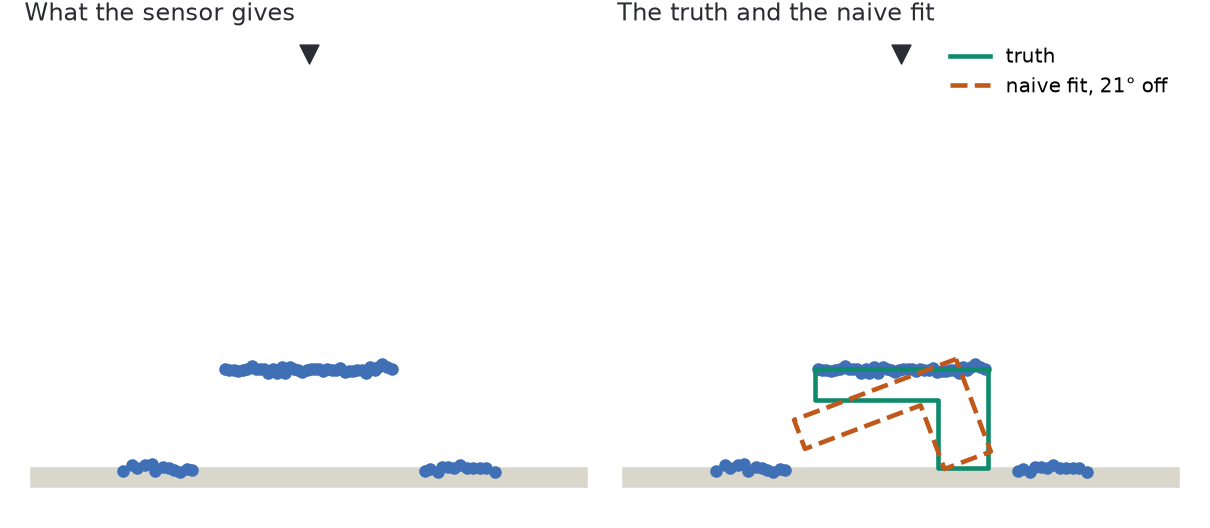
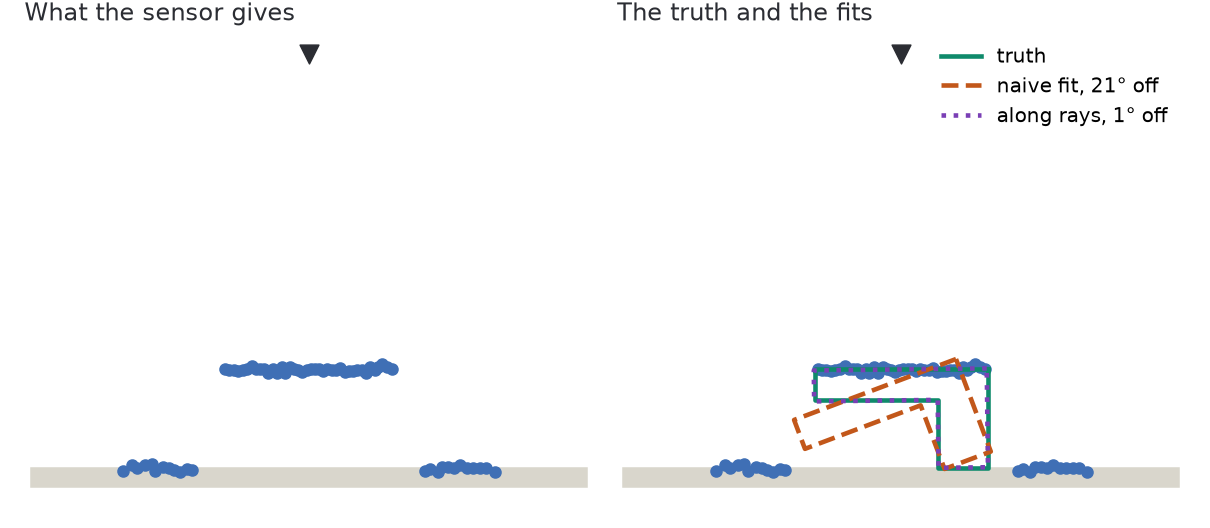
Answer the ladder with a fit along rays
Pairs read only their ray and its neighbours, the gate tightens, and the rays
through have their say in a polish. Step 4 goes from 2.9 degrees and 71 mm to
0.4 degrees and 2 mm, with strays that are now real returns. Same constants at
every step; the start is still given.

diff --git a/ideas/experiments/ladder/rays.py b/ideas/experiments/ladder/rays.py
@@ -1,0 +1,102 @@
+"""Fit along the camera's rays: what a pixel says, not which point is nearest."""
+
+from dataclasses import dataclass
+
+import numpy as np
+from numpy.typing import NDArray
+
+from fit import HIT_GATE, Pose, rigid_fit
+from scenes import BRACKET, CAMERA, RAY_COUNT, Points, depths_along_rays, placed, ray_directions
+
+GATES = (0.06, 0.04, 0.025, 0.012)
+PAIRING_ROUNDS = 6
+WINDOW = 2
+THROUGH_COST = 3.0
+POLISH_ROUNDS = 60
+POLISH_TURN = np.radians(2.0)
+POLISH_SHIFT = 0.008
+POLISH_SHRINK = 0.5
+LEAST_PAIRS = 3
+
+
+@dataclass(frozen=True)
+class Reading:
+    hits: int
+    through: int
+    hidden: int
+    value: float
+
+
+def seen_points(observed: NDArray[np.float64]) -> Points:
+    return CAMERA + ray_directions() * observed[:, None]
+
+
+def visible_model(pose: Pose) -> tuple[Points, NDArray[np.bool_]]:
+    depths = depths_along_rays((placed(BRACKET, pose.angle, pose.shift),))
+    on_model = np.isfinite(depths)
+    points = CAMERA + ray_directions() * np.where(on_model, depths, 0.0)[:, None]
+    return points, on_model
+
+
+def read(pose: Pose, observed: NDArray[np.float64]) -> Reading:
+    model = depths_along_rays((placed(BRACKET, pose.angle, pose.shift),))
+    known = np.isfinite(model) & np.isfinite(observed)
+    gap = observed[known] - model[known]
+    hits = int((np.abs(gap) <= HIT_GATE).sum())
+    through = int((gap > HIT_GATE).sum())
+    hidden = int((gap < -HIT_GATE).sum())
+    return Reading(hits, through, hidden, hits - THROUGH_COST * through)
+
+
+def pairs(pose: Pose, observed: NDArray[np.float64], gate: float) -> tuple[Points, Points]:
+    points, on_model = visible_model(pose)
+    seen = seen_points(observed)
+    usable = np.isfinite(observed)
+    model_side, frame_side = [], []
+    for ray in np.flatnonzero(on_model):
+        low, high = max(0, ray - WINDOW), min(RAY_COUNT, ray + WINDOW + 1)
+        candidates = seen[low:high][usable[low:high]]
+        if len(candidates) == 0:
+            continue
+        distances = np.linalg.norm(candidates - points[ray], axis=1)
+        nearest = int(distances.argmin())
+        if distances[nearest] <= gate:
+            model_side.append(points[ray])
+            frame_side.append(candidates[nearest])
+    return np.array(model_side).reshape(-1, 2), np.array(frame_side).reshape(-1, 2)
+
+
+def compose(step: Pose, pose: Pose) -> Pose:
+    turn = np.array([[np.cos(step.angle), -np.sin(step.angle)], [np.sin(step.angle), np.cos(step.angle)]])
+    return Pose(pose.angle + step.angle, turn @ pose.shift + step.shift)
+
+
+def along_rays(start: Pose, observed: NDArray[np.float64]) -> Pose:
+    pose = start
+    for gate in GATES:
+        for _ in range(PAIRING_ROUNDS):
+            model_side, frame_side = pairs(pose, observed, gate)
+            if len(model_side) < LEAST_PAIRS:
+                break
+            pose = compose(rigid_fit(model_side, frame_side), pose)
+    return pose
+
+
+def polish(start: Pose, observed: NDArray[np.float64]) -> Pose:
+    pose, best = start, read(start, observed).value
+    turn, shift = POLISH_TURN, POLISH_SHIFT
+    moves = ((1, 0, 0), (-1, 0, 0), (0, 1, 0), (0, -1, 0), (0, 0, 1), (0, 0, -1))
+    for _ in range(POLISH_ROUNDS):
+        better = False
+        for spin, across, along in moves:
+            trial = Pose(pose.angle + spin * turn, pose.shift + shift * np.array([across, along]))
+            value = read(trial, observed).value
+            if value > best:
+                pose, best, better = trial, value, True
+        if not better:
+            turn, shift = turn * POLISH_SHRINK, shift * POLISH_SHRINK
+    return pose
+
+
+def by_rays(start: Pose, observed: NDArray[np.float64]) -> Pose:
+    return polish(along_rays(start, observed), observed)

diff --git a/ideas/experiments/ladder/draw.py b/ideas/experiments/ladder/draw.py
@@ -7,12 +7,14 @@ import matplotlib.pyplot as plt
 import numpy as np
 
 from fit import Pose, Verdict, model_to_scan, rotation_error, scan_to_model, starts, verdict
+from rays import by_rays
 from scenes import BRACKET, CAMERA, LADDER, Points, Step, placed, resting_shift, sensed
 
 INK = "#2b2d33"
 TRUTH_COLOUR = "#0f8a6b"
 NAIVE_COLOUR = "#c2571a"
 SCAN_COLOUR = "#3f6fb5"
+RAYS_COLOUR = "#7a3fb5"
 OBSTACLE_COLOUR = "#d9d6cc"
 SEED = 20261104
 
@@ -46,7 +48,8 @@ def framed(axis: plt.Axes, step: Step, scan: Points) -> None:
     axis.axis("off")
 
 
-def figure_of(step: Step, scan: Points, truth: Pose, naive: Pose, error: float, target: Path) -> None:
+def figure_of(step: Step, scan: Points, truth: Pose, fits: tuple[Pose, float, Pose | None, float], target: Path) -> None:
+    naive, error, rays, rays_error = fits
     figure, (given, answer) = plt.subplots(1, 2, figsize=(11.0, 4.8))
     framed(given, step, scan)
     given.set_title("What the sensor gives", loc="left", color=INK, fontsize=16)
@@ -55,8 +58,11 @@ def figure_of(step: Step, scan: Points, truth: Pose, naive: Pose, error: float, 
                 label="truth", zorder=5)  # fmt: skip
     answer.plot(*closed(placed(BRACKET, naive.angle, naive.shift)).T, color=NAIVE_COLOUR, linewidth=3.0,
                 linestyle="--", label=f"naive fit, {error:.0f}° off", zorder=6)  # fmt: skip
+    if rays is not None:
+        answer.plot(*closed(placed(BRACKET, rays.angle, rays.shift)).T, color=RAYS_COLOUR, linewidth=3.0,
+                    linestyle=":", label=f"along rays, {rays_error:.0f}° off", zorder=7)  # fmt: skip
     answer.legend(loc="upper right", frameon=False, fontsize=13)
-    answer.set_title("The truth and the naive fit", loc="left", color=INK, fontsize=16)
+    answer.set_title("The truth and the fits", loc="left", color=INK, fontsize=16)
     figure.tight_layout(pad=1.6)
     figure.savefig(target, dpi=110)
     plt.close(figure)
@@ -67,18 +73,22 @@ def cell(found: Verdict | None) -> str:
 
 
 def main(target: Path) -> None:
-    print("| Step | Scan to model | Model to scan | Truth: hit / through / hidden | Naive: same |")
-    print("| --- | --- | --- | --- | --- |")
+    print("| Step | Scan to model | Model to scan | Along rays | Truth: hit / through / hidden | Naive: same |")
+    print("| --- | --- | --- | --- | --- | --- |")
     for number, step in enumerate(LADDER, start=1):
         generator = np.random.default_rng(SEED + number)
         scan, observed = sensed(step, generator)
         truth = Pose(step.turned, resting_shift(step))
         naive, error, offset = median_run(scan, truth, scan_to_model)
         _, reverse, reverse_offset = median_run(scan, truth, model_to_scan)
-        figure_of(step, scan, truth, naive, error, target / f"ladder-{number}-{step.name}.png")
+        rays, rays_error, rays_offset = (None, 0.0, 0.0)
+        if observed is not None:
+            known = observed
+            rays, rays_error, rays_offset = median_run(scan, truth, lambda _, start: by_rays(start, known))
+        figure_of(step, scan, truth, (naive, error, rays, rays_error), target / f"ladder-{number}-{step.name}.png")
         truth_verdict = None if observed is None else verdict(truth, observed)
         naive_verdict = None if observed is None else verdict(naive, observed)
-        print(f"| {number} {step.name} | {error:.1f}°, {offset:.0f} mm | {reverse:.1f}°, {reverse_offset:.0f} mm | {cell(truth_verdict)} | {cell(naive_verdict)} |")
+        print(f"| {number} {step.name} | {error:.1f}°, {offset:.0f} mm | {reverse:.1f}°, {reverse_offset:.0f} mm | {"—" if rays is None else f"{rays_error:.1f}°, {rays_offset:.0f} mm"} | {cell(truth_verdict)} | {cell(naive_verdict)} |")
 
 
 if __name__ == "__main__":

diff --git a/ideas/experiments/ladder/scenes.py b/ideas/experiments/ladder/scenes.py
@@ -98,4 +98,15 @@ def sensed(step: Step, generator: np.random.Generator) -> tuple[Points, NDArray[
     seen = np.isfinite(depths)
     points = CAMERA + ray_directions()[seen] * depths[seen, None]
     strays = generator.uniform([-0.25, -0.07], [0.25, 0.3], (step.strays, 2))
-    return np.vstack((points, strays)), depths
+    return np.vstack((points, strays)), first_returns(depths, strays)
+
+
+def first_returns(depths: NDArray[np.float64], strays: Points) -> NDArray[np.float64]:
+    """A stray is a return: it takes the place of its ray's measure when it comes first."""
+    angles = np.linspace(-HALF_FIELD, HALF_FIELD, RAY_COUNT)
+    returned = depths.copy()
+    for stray in strays:
+        offset = stray - CAMERA
+        ray = int(np.abs(angles - np.arctan2(offset[0], -offset[1])).argmin())
+        returned[ray] = min(returned[ray], float(np.linalg.norm(offset)))
+    return returned

diff --git a/ideas/problem/cloud-ladder.md b/ideas/problem/cloud-ladder.md
@@ -10,8 +10,19 @@ algorithm must change. A person sees the answer in the left panel of every figur
 | Extra information | The frame holds more than the model | 4, 5, 6, 7 |
 
 **How it is measured**: 2D, 64 rays from a camera, 4 mm of noise, one seed, 8
-starts 15° to 30° from the truth. The naive fit is bare [ICP], scan to model. All
-of it is a toy: `just ladder`.
+starts 15° to 30° from the truth, the median of them. The naive fit is bare [ICP],
+scan to model. All of it is a toy: `just ladder`.
+
+**The fit along rays**, in `rays.py`, answers the ladder ([what it does](#the-fit-along-rays)).
+
+| Step | Naive | Along rays |
+| --- | --- | --- |
+| 3 One side | 15.0°, 22 mm | 1.2°, 1 mm |
+| 4 Strays | 2.9°, 71 mm | 0.4°, 2 mm |
+| 5 Table | 0.8°, 3 mm | 1.3°, 2 mm |
+| 6 Twin | 10.0°, 7 mm | 1.5°, 3 mm |
+| 7 Can | 16.5°, 85 mm | 2.0°, 5 mm |
+| 8 Flat side | 20.6°, 33 mm | 0.5°, 2 mm |
 
 ## The steps
 
@@ -44,6 +55,10 @@ of it is a toy: `just ladder`.
 - **Measured**: 2.9° and 71 mm, with 39 rays through the model.
 - **Teaches**: a few points far from the shape need a [robust loss]. Rays refute
   it.
+- **Along rays**: 0.4° and 2 mm. On five more seeds, 0.0° to 2.2°, at most 3 mm,
+  where the naive fit reaches 28.6° and 94 mm.
+- **[defined]** A stray is a return now: it takes the place of its ray's measure
+  when it comes first. Before, the rays never saw it, which flattered them.
 
 ### 5. A table under it
 
@@ -76,13 +91,33 @@ of it is a toy: `just ladder`.
 - **Teaches, [guess]**: the edges of the seen surface hold the pose, more than the
   surface. The grid below agrees: rays still isolate the truth here.
 
+## The fit along rays
+
+**[sketch]** From a start, three moves, the same at every step:
+
+1. **Pair along rays**: the visible model at a ray reads only the returns of that
+   ray and two around it. A stray or a table far from it is never a candidate.
+2. **Tighten the gate**: 6 cm, then 4, 2.5 and 1.2. A wide gate gives the basin, a
+   narrow one the precision. Only hits move the pose.
+3. **Polish on the rays**: small moves kept when hits minus three times the rays
+   through rise. Through has its say here: it pins what a hit cannot.
+
+**[caution]**
+
+- **The start is given**, within 30° of the truth. This fits, it does not search.
+- **Step 5 is not better in rotation**: 1.3° against 0.8°, the naive fit having no
+  trouble there.
+- **Step 7 ties**: under the can, many poses have the same score, so the best-scored
+  run of the eight (2.8° to 4.3°) is worse than their median. Three seeds.
+- **Same constants at every step**, chosen on step 4.
+
 ## What the ladder asks of the algorithm
 
 | Requirement | From step | In Congru today |
 | --- | --- | --- |
 | Unseen costs nothing | 3 | Partly: only the visible model is aligned |
-| A ray through the model refutes it | 3, 4, 7 | Detection only |
-| Hidden differs from refuted | 7 | Counted as a miss |
+| A ray through the model refutes it | 3, 4, 7 | Detection only; the toy's fit too |
+| Hidden differs from refuted | 7 | Counted as a miss; not by the toy's fit |
 | Several poses can be the answer | 6, **[guess]** | One pose |
 
 ## Is the information there?
